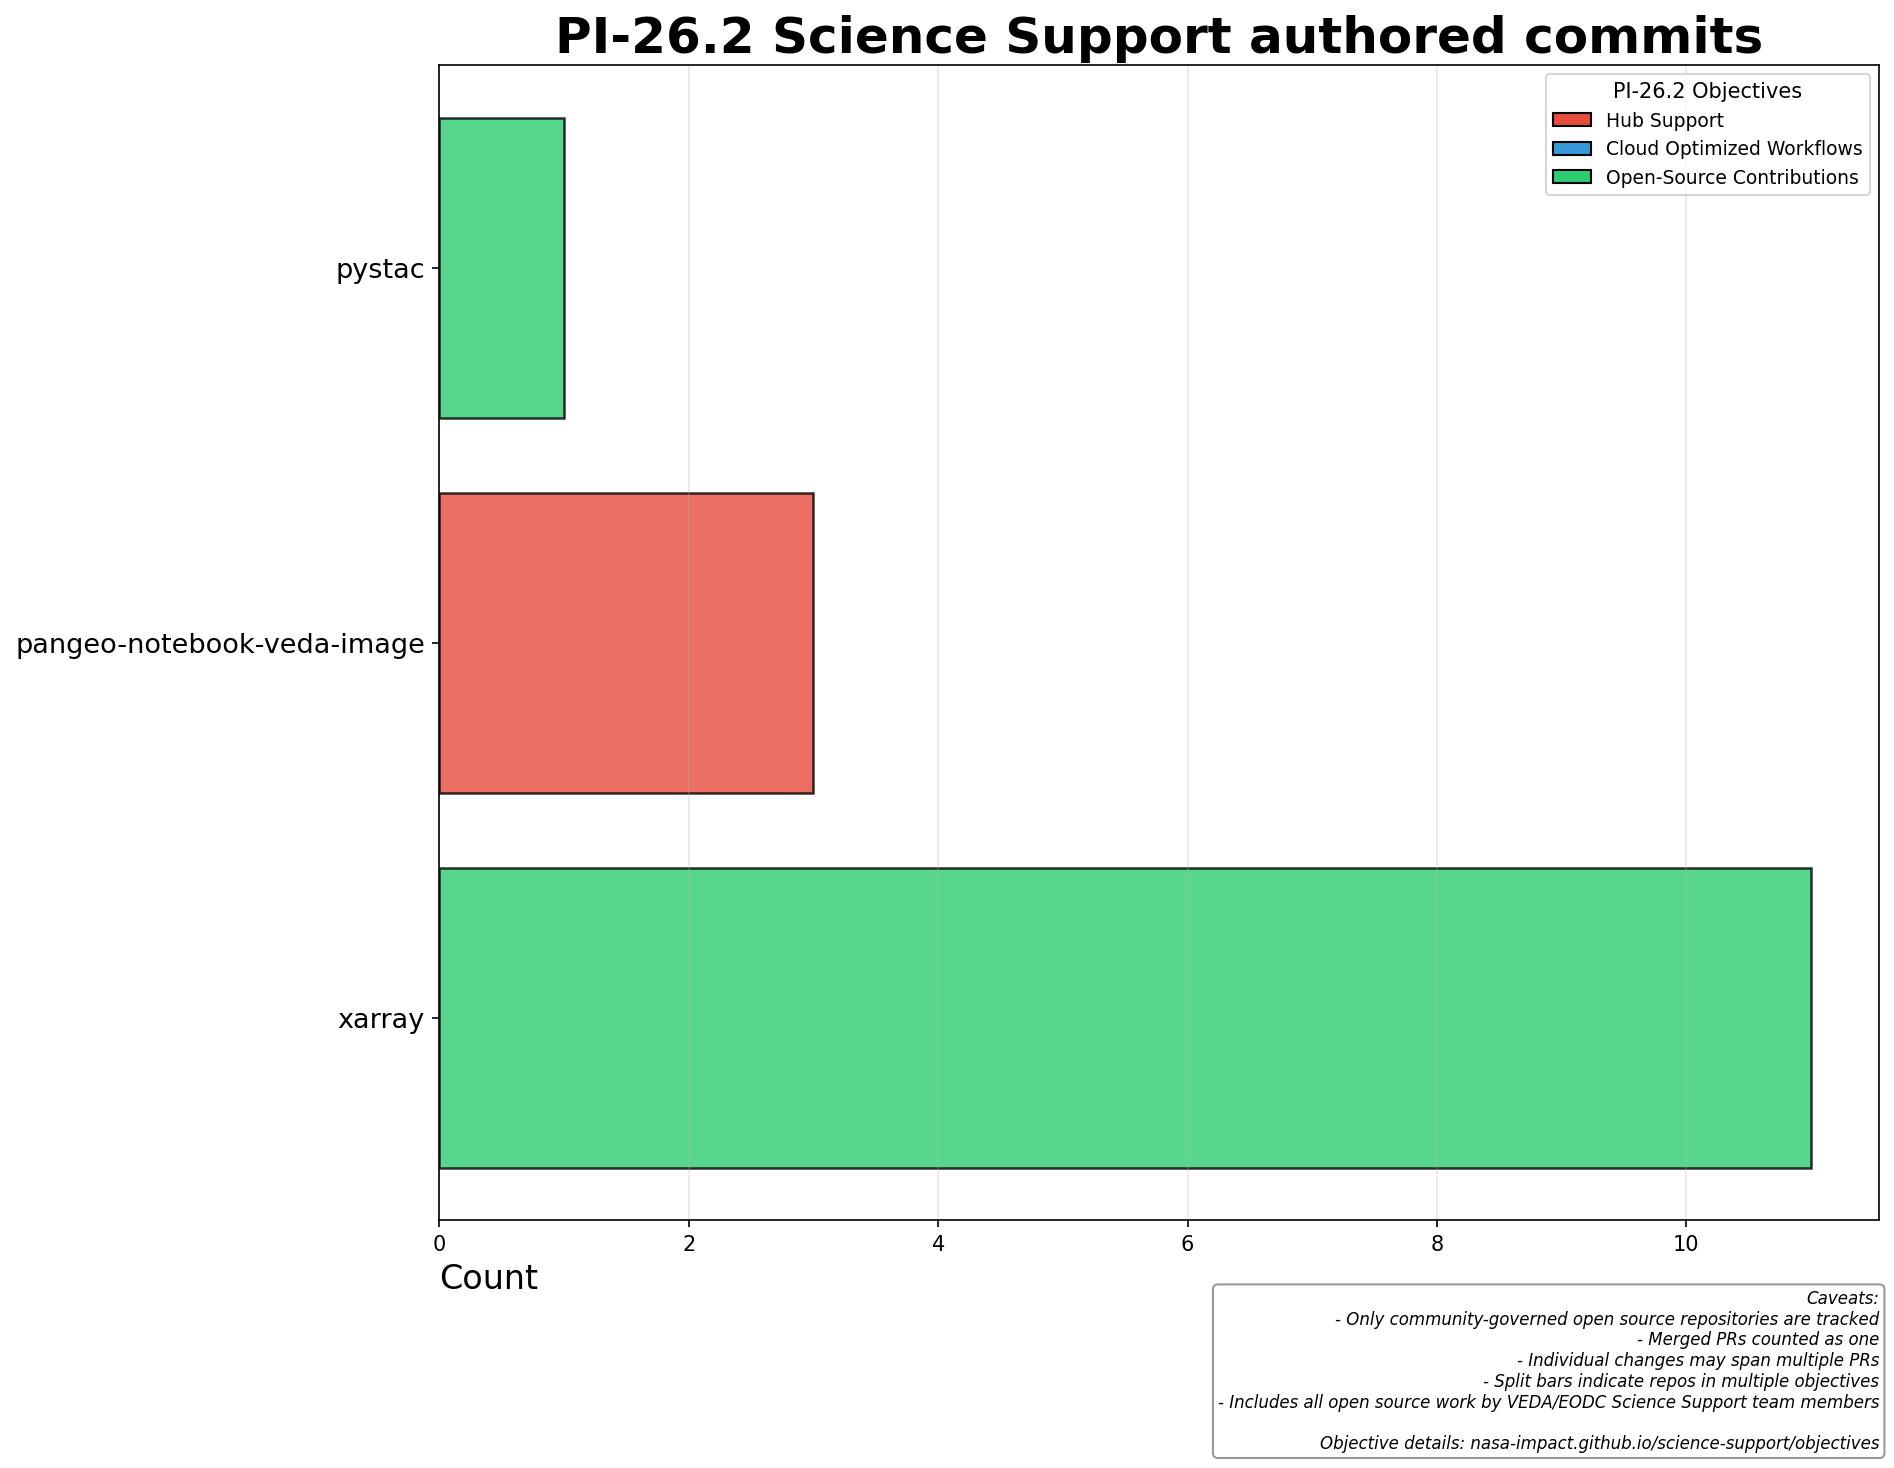
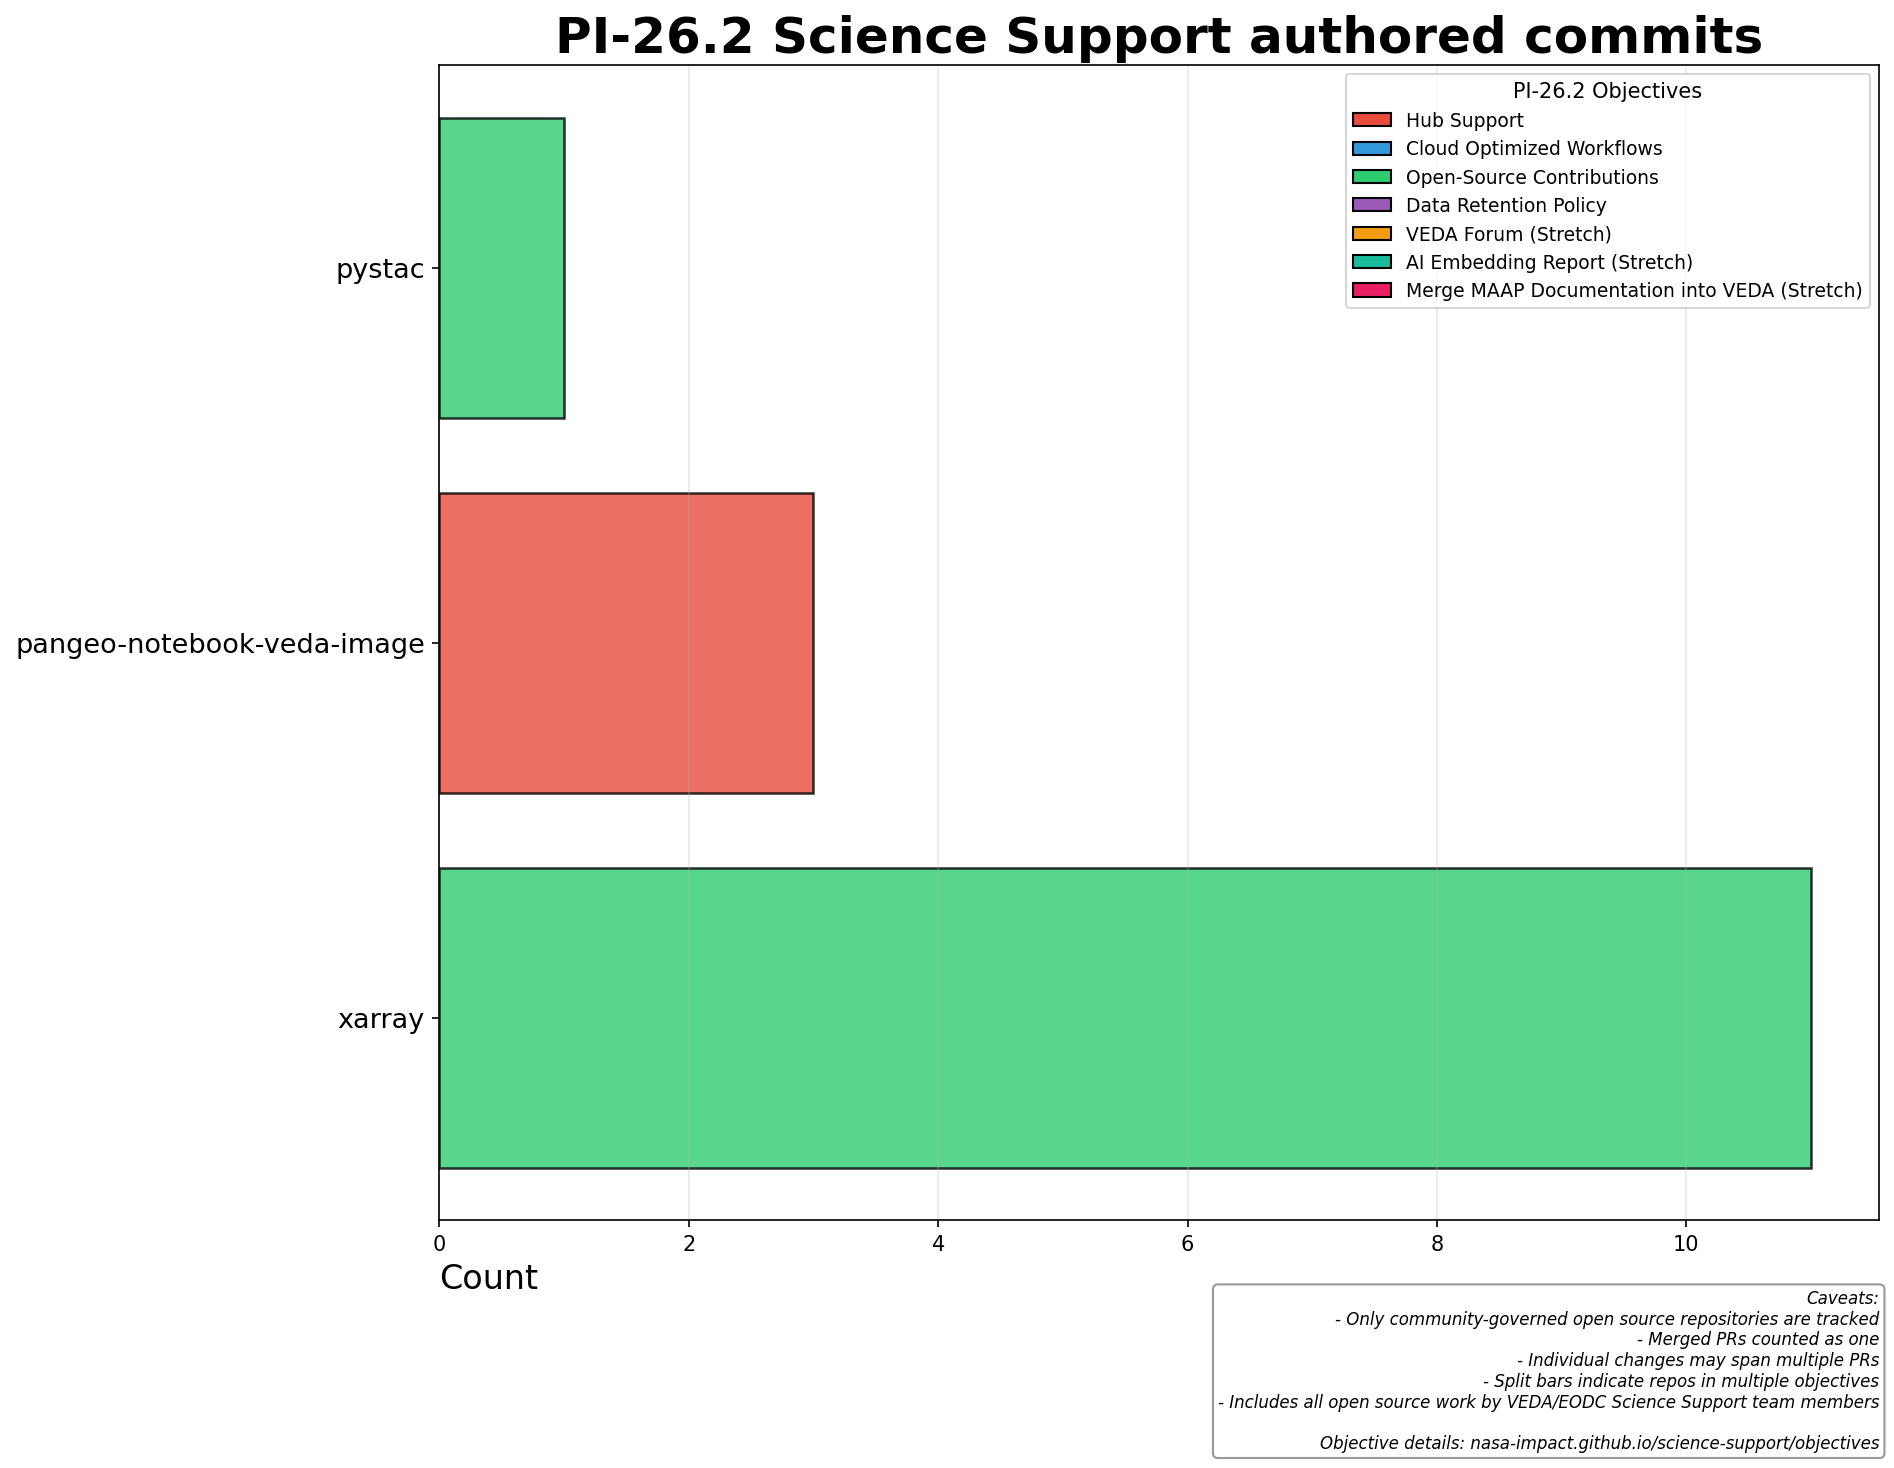
Update reports for 22727883146

Changed region(s): [[0.7165, 0.0613, 0.9968, 0.2146]]

diff --git a/docs/objectives.md b/docs/objectives.md
@@ -6,9 +6,13 @@ This page tracks quarterly objectives and their related repositories across Prog
 
 | # | Objective | Contributors | Repos |
 |---|-----------|--------------|-------|
-| [#1](https://github.com/NASA-IMPACT/science-support/issues/1) | Hub Support | wildintellect, jsignell | repo2docker-action, pangeo-docker-images, veda-docs, pangeo-notebook-veda-image |
-| [#2](https://github.com/NASA-IMPACT/science-support/issues/2) | Cloud Optimized Workflows |  | - |
+| [#1](https://github.com/NASA-IMPACT/science-support/issues/1) | Hub Support | wildintellect, jsignell | repo2docker-action, pangeo-docker-images, pangeo-notebook-veda-image |
+| [#2](https://github.com/NASA-IMPACT/science-support/issues/2) | Cloud Optimized Workflows | wildintellect, jsignell | veda-docs, maap-documentation, cloud-optimized-geospatial-formats-guide |
 | [#3](https://github.com/NASA-IMPACT/science-support/issues/3) | Open-Source Contributions | jsignell, tylanderson | stac-best-practices, stac-spec, dask, pystac, pystac-client, xarray |
+| [#9](https://github.com/NASA-IMPACT/science-support/issues/9) | Data Retention Policy | smk0033 | - |
+| [#10](https://github.com/NASA-IMPACT/science-support/issues/10) | VEDA Forum (Stretch) | smk0033 | - |
+| [#11](https://github.com/NASA-IMPACT/science-support/issues/11) | AI Embedding Report (Stretch) | omshinde | - |
+| [#12](https://github.com/NASA-IMPACT/science-support/issues/12) | Merge MAAP Documentation into VEDA (Stretch) |  | - |
 
 ---
 
